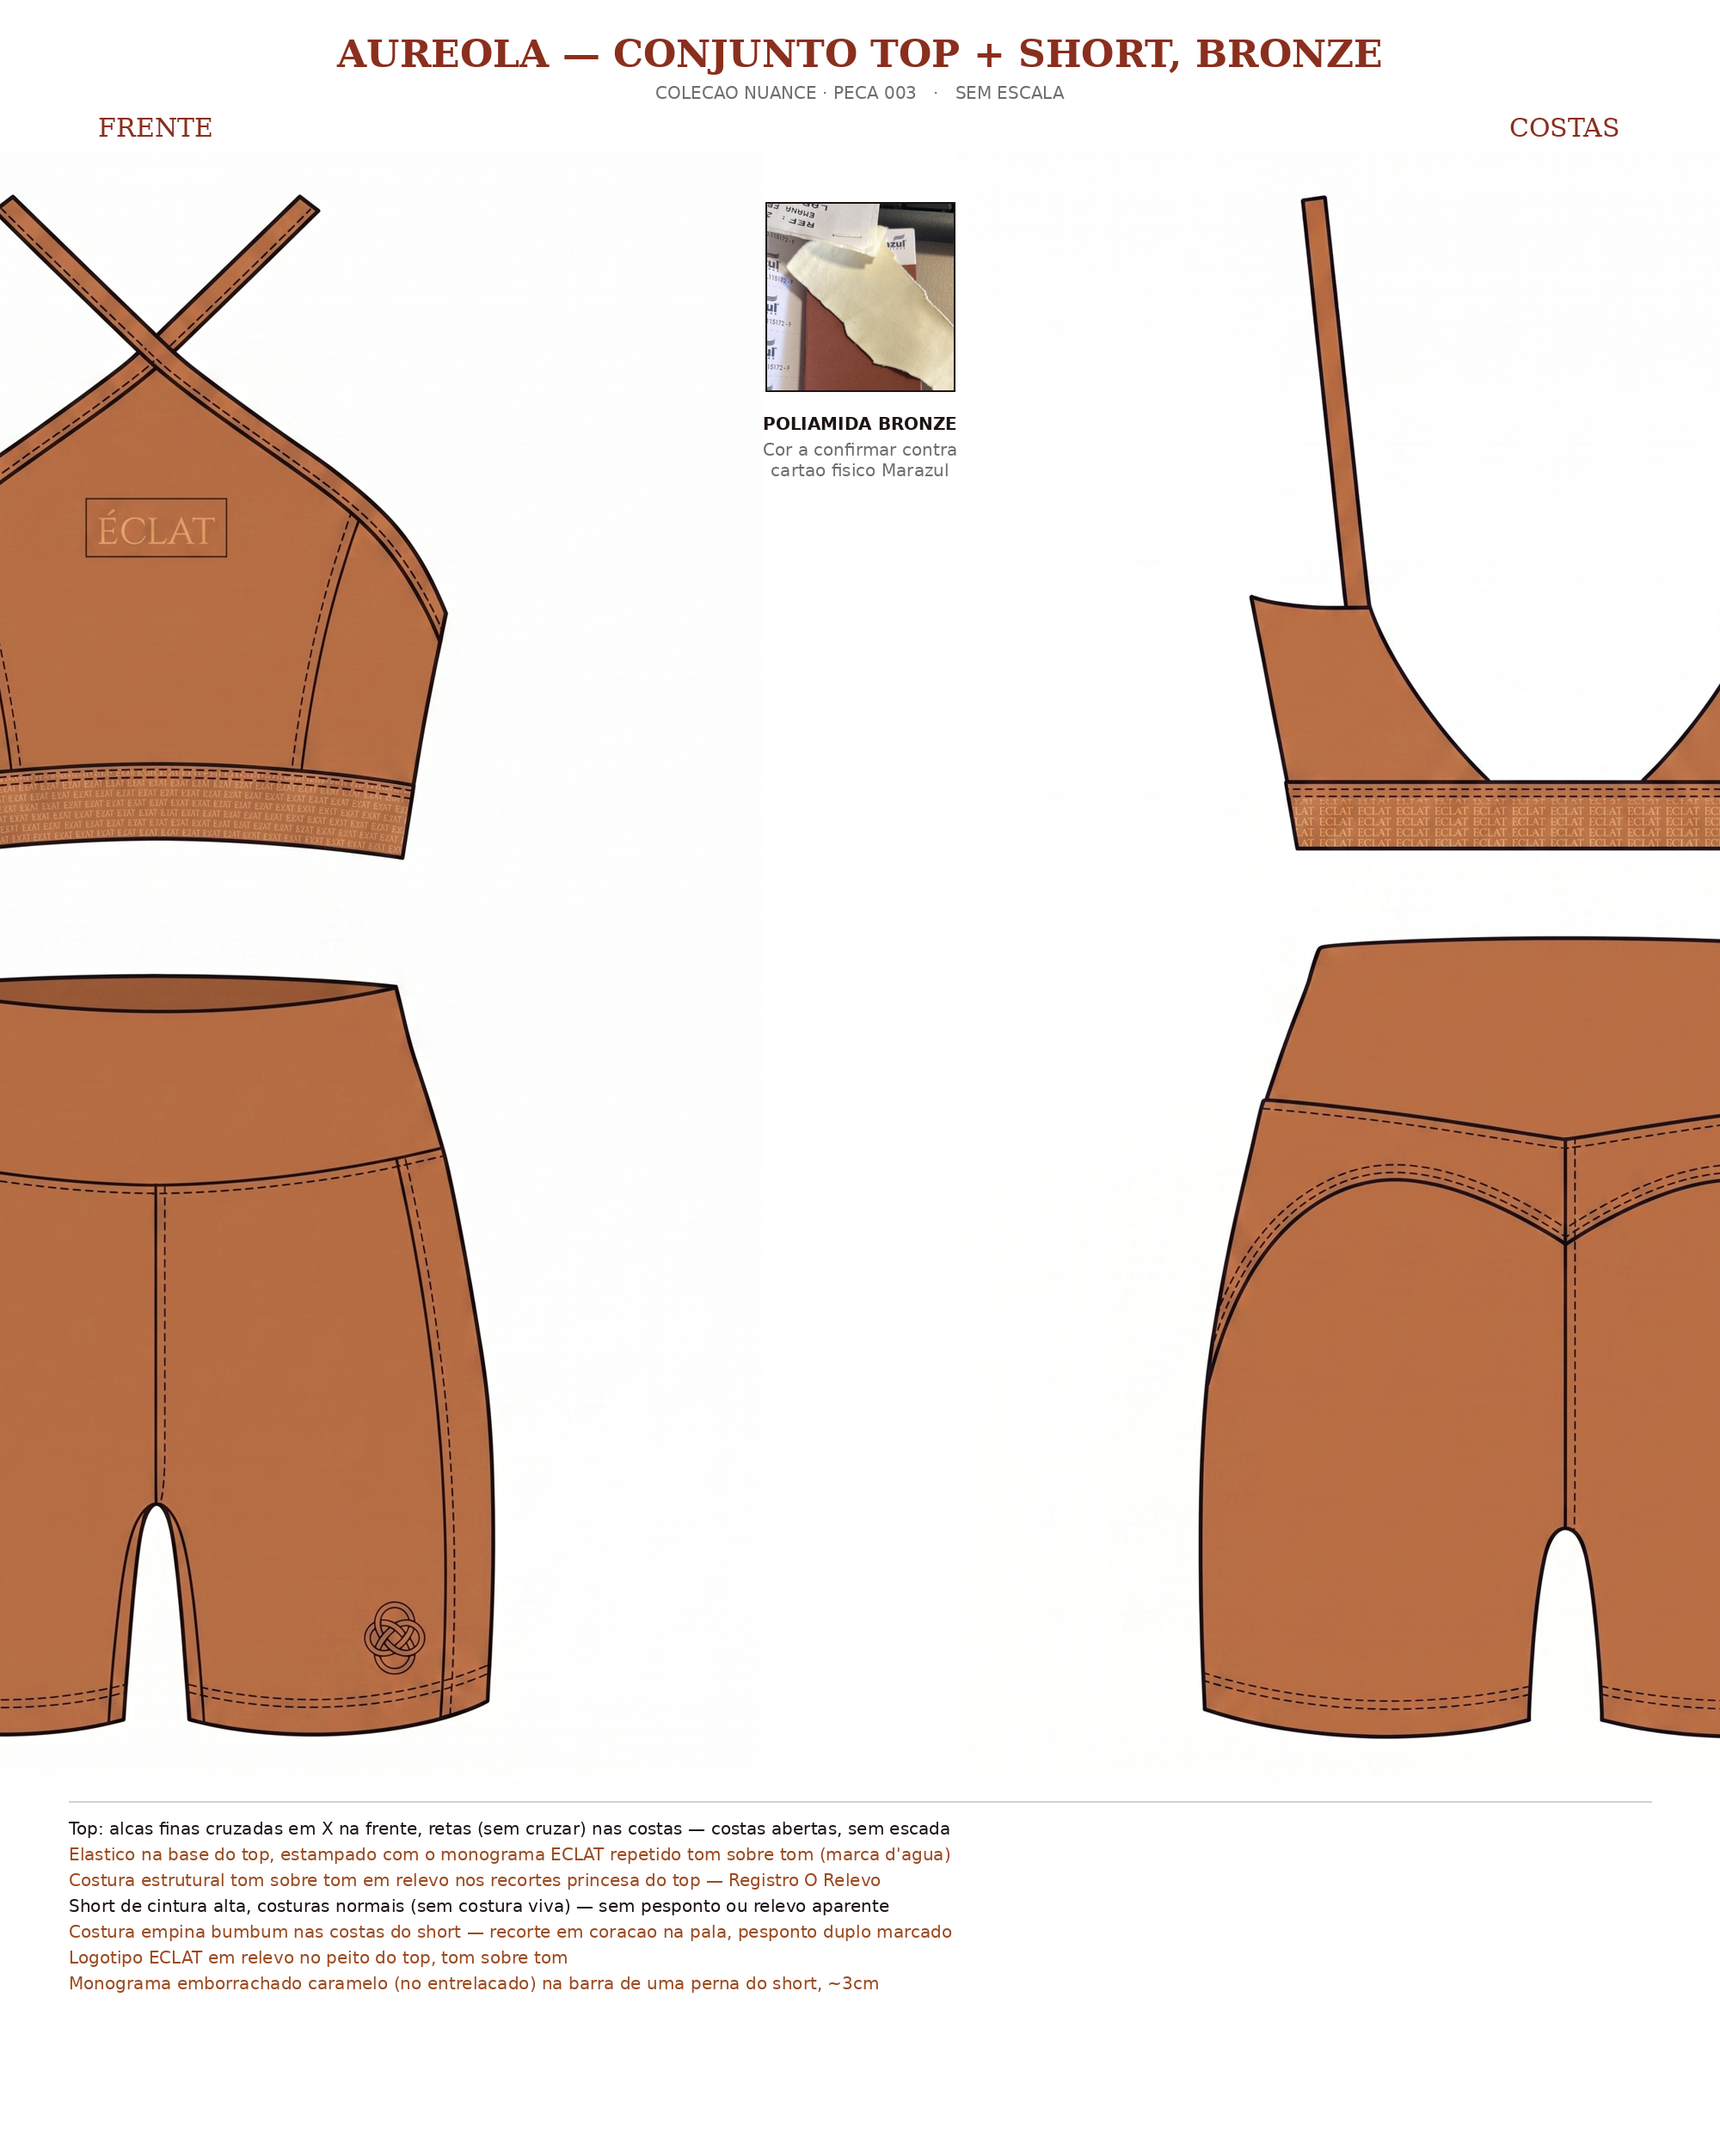
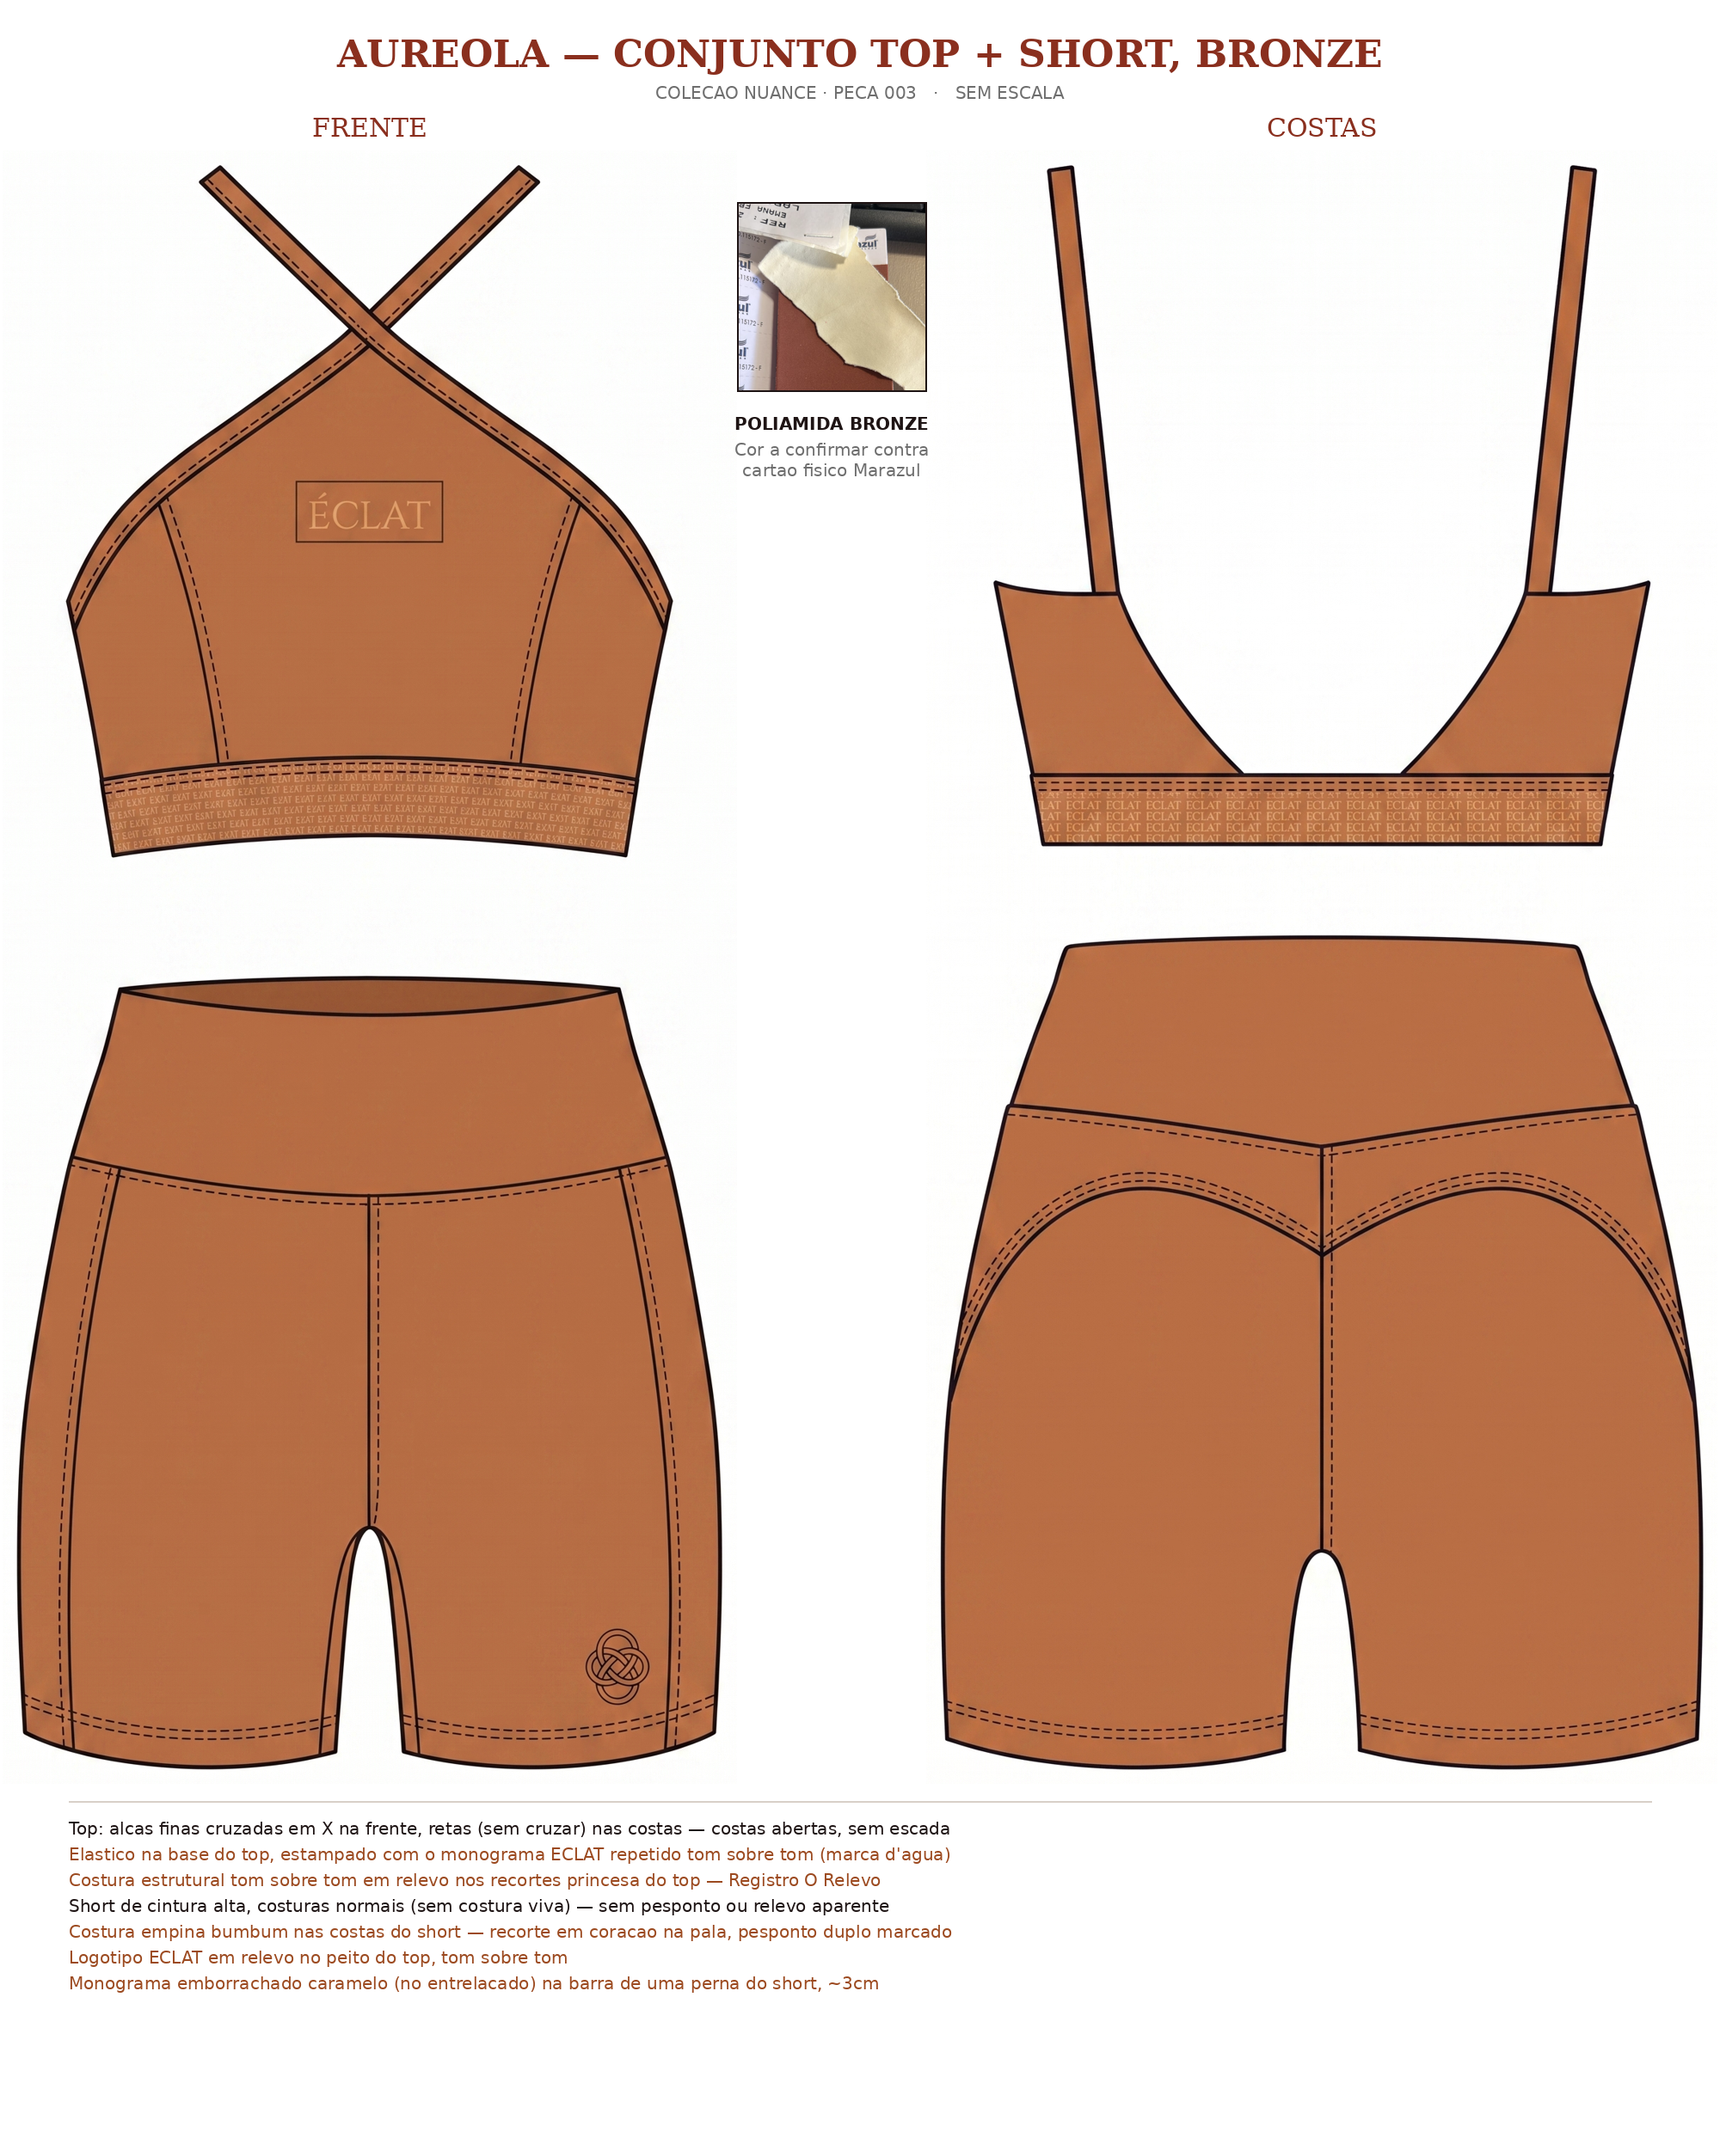
Corrige recorte de margem no compose-flat-aureola.py
trim_white() comparava contra branco puro (255,255,255); o fundo gerado
pelo nano_banana tem ruído sutil (off por poucos valores), então o diff
nunca era zero e a função não recortava nada. Isso deixava as duas
imagens (frente/costas) largas demais para a página, cortando as costas
na borda direita. Corrigido com um threshold no diff antes do bbox.

diff --git a/docs/eclat/fichas/compose-flat-aureola.py b/docs/eclat/fichas/compose-flat-aureola.py
@@ -26,10 +26,14 @@ f_small = ImageFont.truetype(FONT_DIR + "DejaVuSans.ttf", 20)
 f_note = ImageFont.truetype(FONT_DIR + "DejaVuSans-Bold.ttf", 20)
 
 
-def trim_white(im, pad=20):
+def trim_white(im, pad=20, threshold=12):
     bg = Image.new("RGB", im.size, (255, 255, 255))
     diff = ImageChops.difference(im, bg)
-    bbox = diff.getbbox()
+    # nano_banana backgrounds are near-white but noisy (off by a few units),
+    # so a plain getbbox() on the raw diff treats the whole canvas as
+    # "content" and trim_white becomes a no-op. Threshold the diff first.
+    mask = diff.convert("L").point(lambda p: 255 if p > threshold else 0)
+    bbox = mask.getbbox()
     if bbox:
         l, t, r, b = bbox
         l, t = max(l - pad, 0), max(t - pad, 0)
